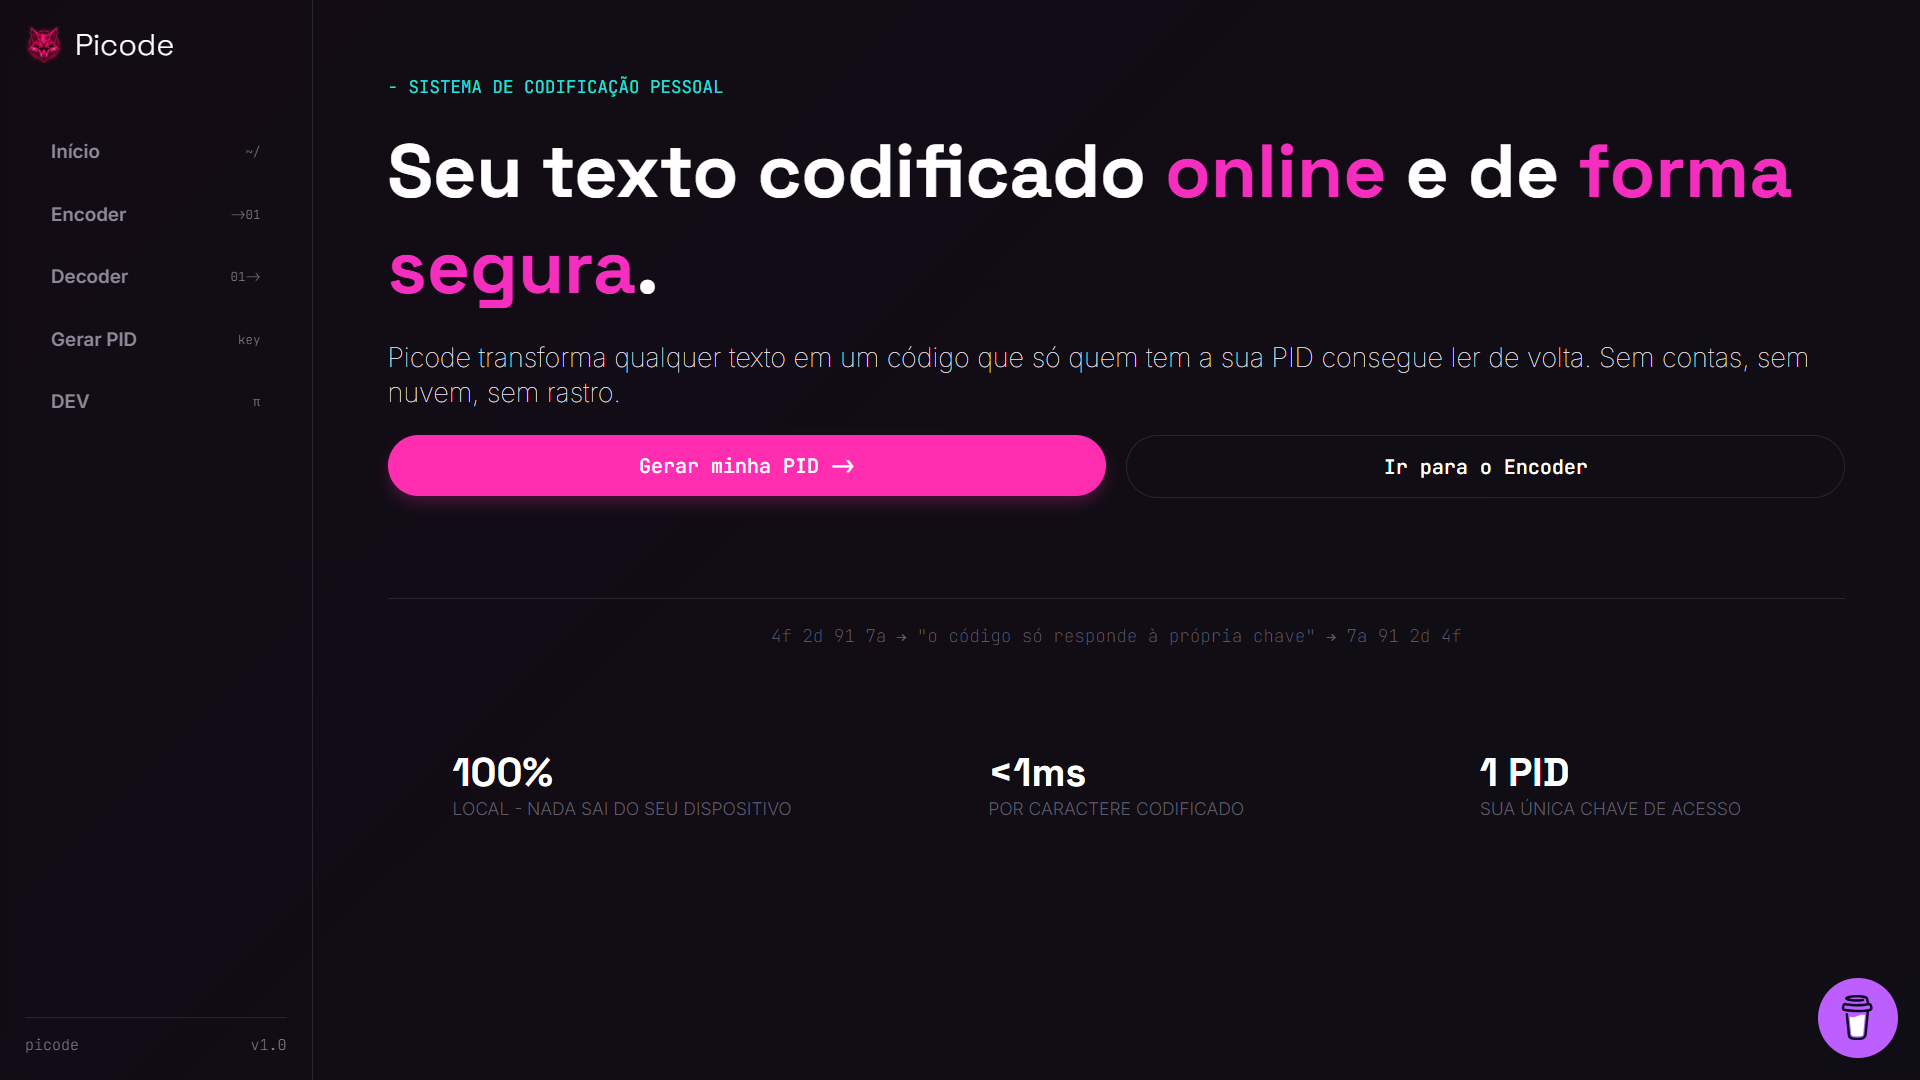
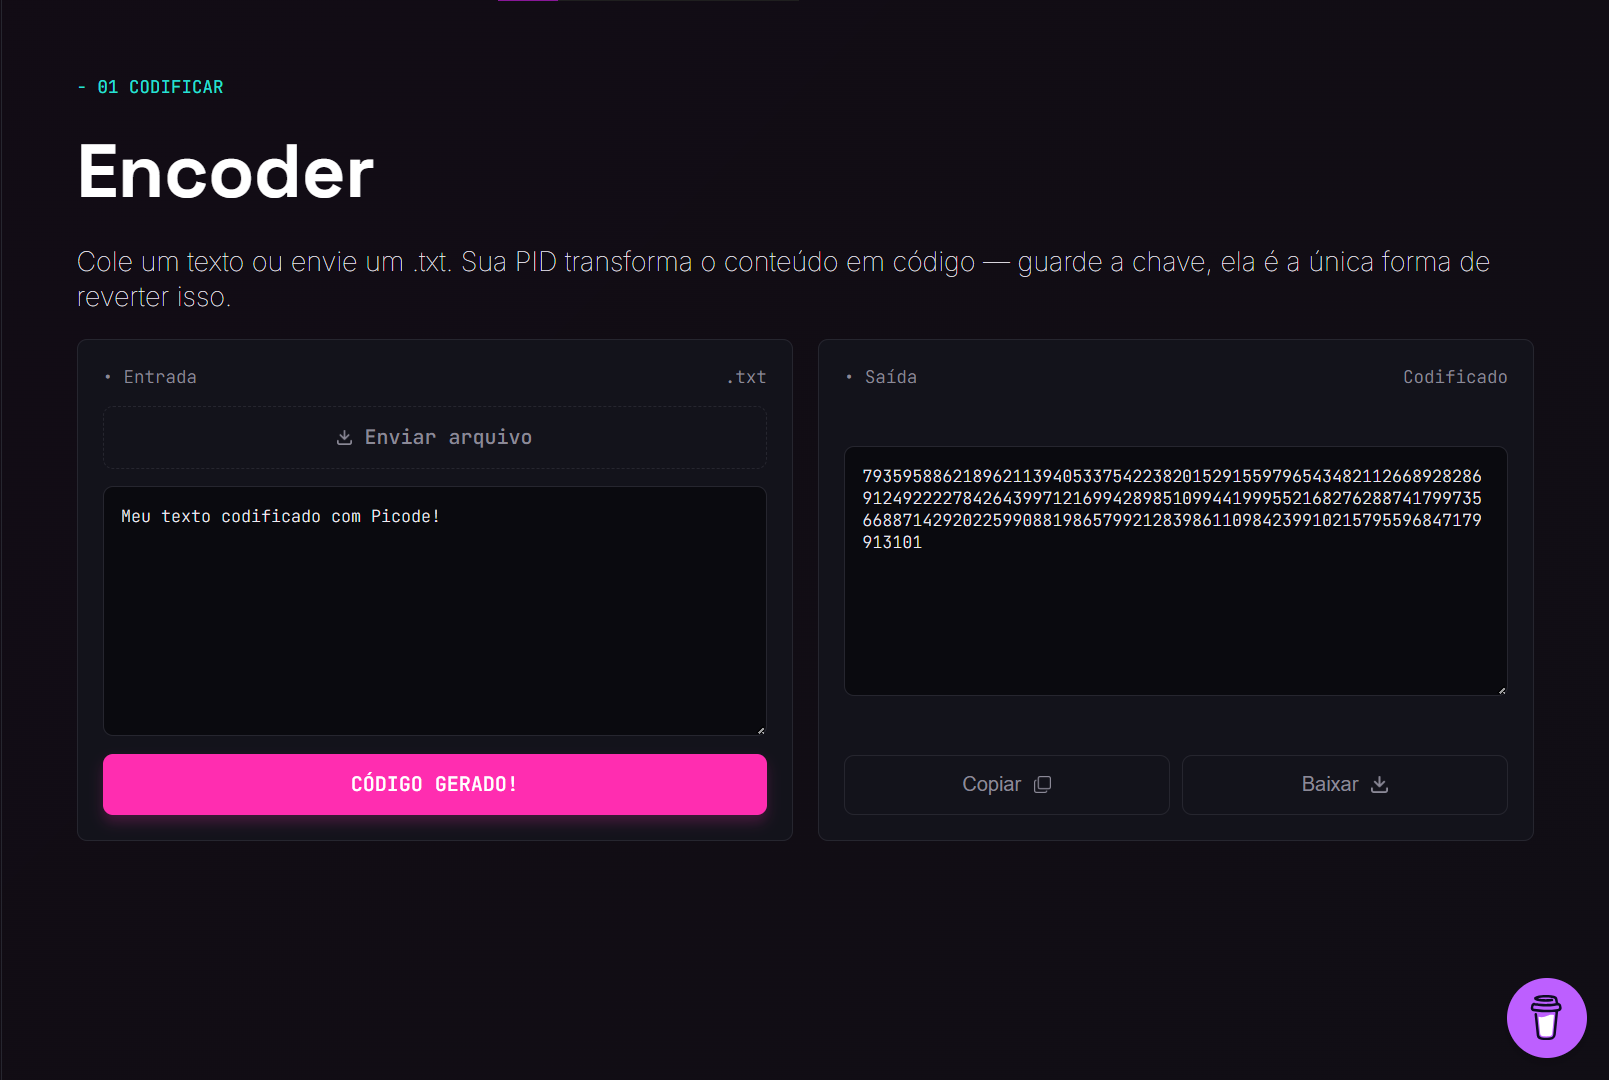
feat: projects images

diff --git a/pages/projects.html b/pages/projects.html
@@ -48,7 +48,7 @@
                             </div>
 
                             <div class="texts-container">
-                                <h3>PROJETO 1</h3>
+                                <h3>PICODE</h3>
                                 <p>Sistema de codificação com uma chave de segurança.</p>
                             </div>
 
@@ -77,24 +77,24 @@
                     </div>
                     
                     <div class="project-content">
-                        <img src="../img/projects/picode.png" alt="project image">
+                        <img src="../img/projects/quokka.png" alt="project image">
 
                         <div class="part2">
                             <div class="project-skills">
-                                <p>Javascript</p>
-                                <p>SASS</p>
-                                <p>CSS</p>
+                                <p>Gamer Maker</p>
+                                <p>GML</p>
+                                <p>Pixel art</p>
                             </div>
 
                             <div class="texts-container">
-                                <h3>PROJETO 2</h3>
-                                <p>Sistema de codificação com uma chave de segurança.</p>
+                                <h3>QUOKKA</h3>
+                                <p>Jogo 2D de plataforma e aventura.</p>
                             </div>
 
                             <div class="buttons-container">
 
                                 <a href="" class="test-button">
-                                    <button>TESTAR</button>
+                                    <button>JOGAR</button>
                                 </a>
 
                                 <a href="" class="github-button">
@@ -116,7 +116,7 @@
                     </div>
                     
                     <div class="project-content">
-                        <img src="../img/projects/picode.png" alt="project image">
+                        <img src="../img/projects/luciana-psico.png" alt="project image">
 
                         <div class="part2">
                             <div class="project-skills">
@@ -126,8 +126,8 @@
                             </div>
 
                             <div class="texts-container">
-                                <h3>PROJETO 3</h3>
-                                <p>Sistema de codificação com uma chave de segurança.</p>
+                                <h3>Lu Psico</h3>
+                                <p>Landing page para psicóloga em formação - Luciana Psico.</p>
                             </div>
 
                             <div class="buttons-container">

diff --git a/styles/index.css b/styles/index.css
@@ -796,7 +796,8 @@ section.projects div.projects-carousel div.project-container div.project-content
 }
 section.projects div.projects-carousel div.project-container div.project-content img {
   width: 100%;
-  height: 100%;
+  -o-object-fit: cover;
+     object-fit: cover;
   border-radius: 8px;
 }
 section.projects div.projects-carousel div.project-container div.project-content div.part2 {

diff --git a/styles/pages/_projects.scss b/styles/pages/_projects.scss
@@ -61,7 +61,8 @@ section.projects{
 
                 img{
                     width: 100%;
-                    height: 100%;
+                    
+                    object-fit: cover;
                     border-radius: $border-radius;
                 }
 
